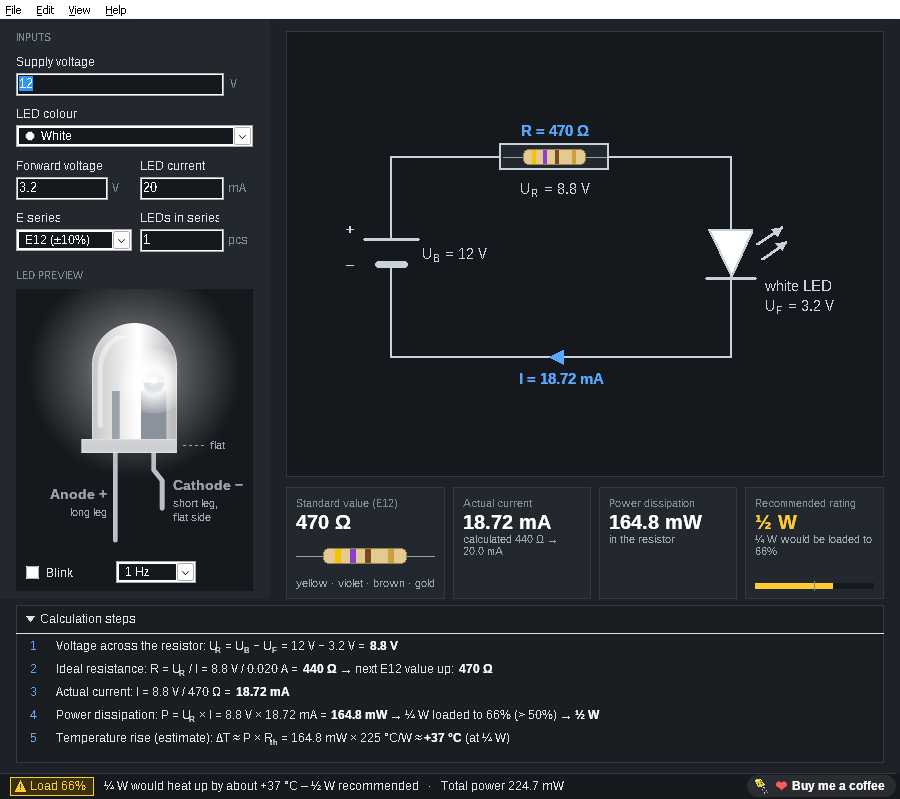
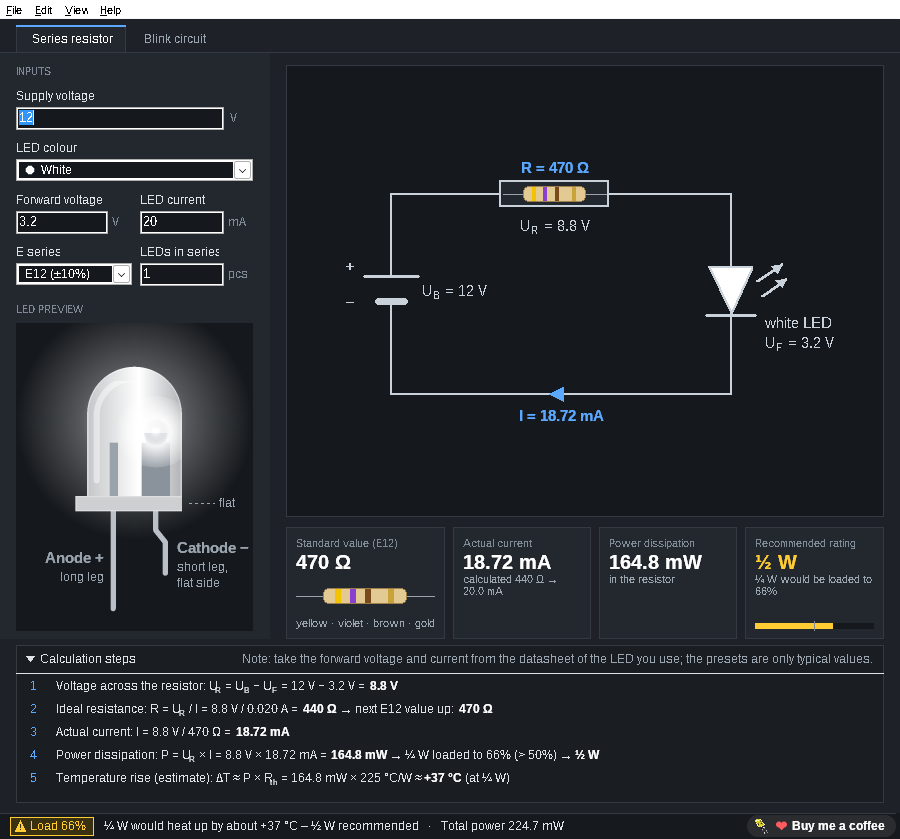
Projektseite: Version 2.3 mit Blinkschaltung (#12)
Download-Links v2.3, neuer Abschnitt Blinkschaltung mit Screenshot, neue Screenshots DE/EN, Beschreibung und JSON-LD ergänzt.

diff --git a/site/de/index.html b/site/de/index.html
@@ -4,8 +4,8 @@
 <meta charset="utf-8">
 <meta name="viewport" content="width=device-width, initial-scale=1">
 <title>LedPreResistor – kostenloser LED-Vorwiderstandsrechner für Windows und Linux</title>
-<meta name="description" content="Elospeed LedPreResistor berechnet den Vorwiderstand für eine oder mehrere LEDs: Normwert aus E12/E24/E96, Farbringe, tatsächlicher Strom, Leistung und passende Bauform, mit Rechenweg Schritt für Schritt. Kostenlos, Open Source, für Windows und Linux.">
-<meta name="keywords" content="LED Vorwiderstand berechnen, Vorwiderstand Rechner, LED Widerstand, E12, E24, E96, Farbcode Widerstand, Elektronik, Windows, Linux, kostenlos, Open Source">
+<meta name="description" content="Elospeed LedPreResistor berechnet den Vorwiderstand für eine oder mehrere LEDs: Normwert aus E12/E24/E96, Farbringe, tatsächlicher Strom, Leistung und passende Bauform, mit Rechenweg Schritt für Schritt, dazu ein Rechner für Blinkschaltungen mit NE555 und Multivibrator. Kostenlos, Open Source, für Windows und Linux.">
+<meta name="keywords" content="LED Vorwiderstand berechnen, Vorwiderstand Rechner, LED Widerstand, E12, E24, E96, Farbcode Widerstand, NE555 Blinker, astabiler Multivibrator, LED Blinkschaltung, Elektronik, Windows, Linux, kostenlos, Open Source">
 <meta name="author" content="Elospeed">
 <meta name="robots" content="index, follow">
 <link rel="canonical" href="https://elospeed.github.io/LedPreResistor/de/">
@@ -41,10 +41,10 @@
   "name": "Elospeed LedPreResistor",
   "operatingSystem": "Windows 10, Windows 11 (64-bit), Linux (x86_64)",
   "applicationCategory": "UtilitiesApplication",
-  "description": "Berechnet den Vorwiderstand für eine oder mehrere LEDs in Reihe: nächsthöherer Normwert aus E12, E24 oder E96, Farbringe, tatsächlicher Strom, Leistung und empfohlene Bauform, mit Rechenweg Schritt für Schritt.",
+  "description": "Berechnet den Vorwiderstand für eine oder mehrere LEDs in Reihe: nächsthöherer Normwert aus E12, E24 oder E96, Farbringe, tatsächlicher Strom, Leistung und empfohlene Bauform, mit Rechenweg Schritt für Schritt. Rechnet auch LED-Blinkschaltungen mit NE555 oder Multivibrator mit zwei Transistoren.",
   "url": "https://elospeed.github.io/LedPreResistor/de/",
   "downloadUrl": "https://github.com/Elospeed/LedPreResistor/releases/latest",
-  "softwareVersion": "2.2",
+  "softwareVersion": "2.3",
   "inLanguage": "de",
   "license": "https://opensource.org/licenses/MIT",
   "isAccessibleForFree": true,
@@ -61,6 +61,7 @@
     <a class="brand" href="./"><img src="../img/icon-192.png" alt="" width="30" height="30">Elospeed LedPreResistor</a>
     <nav>
       <a class="hide-m" href="#funktionen">Funktionen</a>
+      <a class="hide-m" href="#blinken">Blinken</a>
       <a class="hide-m" href="#so-gehts">So geht's</a>
       <a class="hide-m" href="#faq">Fragen</a>
       <a class="hide-m" href="https://github.com/Elospeed/LedPreResistor">GitHub</a>
@@ -78,8 +79,8 @@
     <h1>Der richtige Widerstand<br>für <span class="grad">jede LED</span></h1>
     <p class="lead">Speisespannung eingeben, LED-Farbe und Strom wählen. LedPreResistor sucht den nächsten Normwiderstand, zeigt seine Farbringe, den tatsächlichen Strom und die Leistung und sagt dir, welche Bauform du brauchst. Jeder Rechenschritt steht mit deinen eigenen Zahlen da. Ein kleines Programm für Windows und Linux, kostenlos und Open Source.</p>
     <div class="cta">
-      <a class="btn primary" href="https://github.com/Elospeed/LedPreResistor/releases/download/v2.2/LedPreResistor-2.2.zip">⬇ Download für Windows</a>
-      <a class="btn primary" href="https://github.com/Elospeed/LedPreResistor/releases/download/v2.2/LedPreResistor-2.2-linux-x86_64.tar.gz">⬇ Download für Linux</a>
+      <a class="btn primary" href="https://github.com/Elospeed/LedPreResistor/releases/download/v2.3/LedPreResistor-2.3.zip">⬇ Download für Windows</a>
+      <a class="btn primary" href="https://github.com/Elospeed/LedPreResistor/releases/download/v2.3/LedPreResistor-2.3-linux-x86_64.tar.gz">⬇ Download für Linux</a>
       <a class="btn" href="https://github.com/Elospeed/LedPreResistor">Quelltext auf GitHub</a>
     </div>
     <ul class="facts">
@@ -88,10 +89,11 @@
       <li>Eine EXE, keine Installation</li>
       <li>Läuft offline</li>
       <li>E12, E24 und E96</li>
+      <li>Blinkschaltungen: NE555 und Multivibrator</li>
     </ul>
     <figure class="shot hero-shot">
-      <div class="bar"><img src="../img/icon-32.png" alt=""><span>LedPreResistor · Elospeed 2.2</span><i class="min"></i><i class="max"></i><i class="cls"></i></div>
-      <img src="../img/ledpreresistor-main.png" width="900" height="799" alt="Hauptfenster von LedPreResistor: 12 V, weisse LED, 20 mA. Schaltplan mit 470-Ohm-Widerstand, Farbringe gelb violett braun gold, 18,72 mA, 164,8 mW, empfohlene Bauform ein halbes Watt, darunter der Rechenweg">
+      <div class="bar"><img src="../img/icon-32.png" alt=""><span>LedPreResistor · Elospeed 2.3</span><i class="min"></i><i class="max"></i><i class="cls"></i></div>
+      <img src="../img/ledpreresistor-main.png" width="900" height="839" alt="Hauptfenster von LedPreResistor: 12 V, weisse LED, 20 mA. Schaltplan mit 470-Ohm-Widerstand, Farbringe gelb violett braun gold, 18,72 mA, 164,8 mW, empfohlene Bauform ein halbes Watt, darunter der Rechenweg">
     </figure>
   </div>
 </section>
@@ -104,7 +106,7 @@
       <div class="card"><h3><span class="dot" style="background:var(--red)"></span>Normwert und Farbringe</h3><p>Immer der nächsthöhere Wert aus der Reihe E12, E24 oder E96, damit die LED nie mehr Strom bekommt als geplant. Der Widerstand wird mit seinen Farbringen gezeichnet: vier Ringe bei E12/E24, fünf bei E96.</p></div>
       <div class="card"><h3><span class="dot" style="background:var(--yellow)"></span>Leistung und Bauform</h3><p>Tatsächlicher Strom, Leistung im Widerstand und in den LEDs. LedPreResistor empfiehlt ⅛, ¼, ½ oder 1 W und warnt ab 50 % Auslastung, mit geschätzter Erwärmung des Widerstands.</p></div>
       <div class="card"><h3><span class="dot" style="background:var(--green)"></span>Rechenweg Schritt für Schritt</h3><p>Ein aufklappbarer Bereich zeigt die fünf Schritte mit deinen Werten: Spannung am Widerstand, idealer Wert, Normwert, tatsächlicher Strom, Leistung und Erwärmung. Zum Lernen und zum Nachprüfen.</p></div>
-      <div class="card"><h3><span class="dot" style="background:var(--blue)"></span>LED-Vorschau</h3><p>Eine realistische 5-mm-LED in der gewählten Farbe, Anode, Kathode und flache Seite beschriftet, damit sie richtig herum eingelötet wird. Blinkt auf Wunsch mit 0,5 bis 5 Hz.</p></div>
+      <div class="card"><h3><span class="dot" style="background:var(--blue)"></span>LED-Vorschau</h3><p>Eine realistische 5-mm-LED in der gewählten Farbe, Anode, Kathode und flache Seite beschriftet, damit sie richtig herum eingelötet wird. Im Reiter «Blinkschaltung» blinkt sie mit den berechneten Zeiten.</p></div>
       <div class="card"><h3><span class="dot" style="background:var(--white)"></span>Schaltplan mit allen Werten</h3><p>Spannungsquelle, Widerstand und LED in einem übersichtlichen Schaltplan, mit Spannung, Strom und Widerstand an jedem Bauteil. Auch mehrere LEDs in Reihe.</p></div>
       <div class="card"><h3><span class="dot" style="background:var(--accent)"></span>LED-Info eingebaut</h3><p>Mit F1 öffnet sich «Die Leuchtdiode»: wie eine LED funktioniert, Farben und Durchlassspannungen, Polarität, Vorwiderstand, Konstantstrom und Praxistipps. Im Browser, auch offline.</p></div>
     </div>
@@ -126,13 +128,34 @@
       </ul>
     </div>
     <figure class="shot">
-      <div class="bar"><img src="../img/icon-32.png" alt=""><span>LedPreResistor · Elospeed 2.2</span><i class="min"></i><i class="max"></i><i class="cls"></i></div>
-      <img src="../img/ledpreresistor-warning.png" width="900" height="799" alt="LedPreResistor mit 9 V, roter LED, 25 mA: 330 Ohm, 148,5 mW, ein Viertelwatt-Widerstand wäre zu 59 Prozent ausgelastet, die Statuszeile warnt gelb und empfiehlt ein halbes Watt" loading="lazy">
+      <div class="bar"><img src="../img/icon-32.png" alt=""><span>LedPreResistor · Elospeed 2.3</span><i class="min"></i><i class="max"></i><i class="cls"></i></div>
+      <img src="../img/ledpreresistor-warning.png" width="900" height="839" alt="LedPreResistor mit 9 V, roter LED, 25 mA: 330 Ohm, 148,5 mW, ein Viertelwatt-Widerstand wäre zu 59 Prozent ausgelastet, die Statuszeile warnt gelb und empfiehlt ein halbes Watt" loading="lazy">
     </figure>
   </div>
 </section>
 
-<section id="so-gehts" class="alt">
+<section id="blinken" class="alt">
+  <div class="wrap split rev">
+    <div>
+      <h2>Die LED blinken lassen</h2>
+      <p class="sub" style="margin-bottom:0">Neu in Version 2.3: Der Reiter «Blinkschaltung» rechnet die zwei klassischen Bastel-Blinker, mit Schaltplan, Rechenweg und Prüfungen.</p>
+      <ul class="ticks">
+        <li><strong>NE555 astabil:</strong> An- und Aus-Zeit, Frequenz und Tastgrad aus R1, R2 und C, wahlweise mit Diode über R2 für kurze Blitze</li>
+        <li><strong>Multivibrator mit zwei BC547:</strong> zwei LEDs blinken im Wechsel, standardmässig symmetrisch 1:1</li>
+        <li><strong>Auch umgekehrt:</strong> Frequenz (NE555) oder Leuchtdauer jeder LED (Multivibrator) eingeben, das Programm wählt Widerstände aus der E12-Reihe und zeigt die Zeiten, die damit wirklich herauskommen</li>
+        <li>Vorwiderstand der LEDs, Farbringe und Schaltplan mit allen Werten</li>
+        <li>Prüfungen für Spannungsbereich, Ausgangsstrom, Sättigung der Transistoren und Sperrspannung an der Basis</li>
+        <li>Die LED-Vorschau blinkt mit den berechneten Zeiten und zeigt die Frequenz in Hz</li>
+      </ul>
+    </div>
+    <figure class="shot">
+      <div class="bar"><img src="../img/icon-32.png" alt=""><span>LedPreResistor · Elospeed 2.3</span><i class="min"></i><i class="max"></i><i class="cls"></i></div>
+      <img src="../img/ledpreresistor-blink.png" width="900" height="839" alt="LedPreResistor Reiter Blinkschaltung: NE555 astabil mit R1 1 Kiloohm, R2 68 Kiloohm und 10 Mikrofarad an 12 V, 1,05 Hz, Tastgrad 50,4 Prozent, Vorwiderstand 390 Ohm für eine weisse LED, Schaltplan und Rechenweg" loading="lazy">
+    </figure>
+  </div>
+</section>
+
+<section id="so-gehts">
   <div class="wrap">
     <h2>So geht's</h2>
     <p class="sub">In drei Schritten vom Datenblatt zum richtigen Widerstand.</p>
@@ -153,8 +176,8 @@
   </div>
 </section>
 
-<section>
-  <div class="wrap split rev">
+<section class="alt">
+  <div class="wrap split">
     <div>
       <h2>Rechnen und dabei lernen</h2>
       <p class="sub" style="margin-bottom:0">Die eingebaute LED-Info ist eine kurze Anleitung für Bastler, für Version 2.0 neu geschrieben, mit Werten auf dem Stand von 2026.</p>
@@ -174,7 +197,7 @@
   </div>
 </section>
 
-<section id="faq" class="alt">
+<section id="faq">
   <div class="wrap">
     <h2>Fragen und Antworten</h2>
     <details>
@@ -203,7 +226,7 @@
     </details>
     <details>
       <summary>Gibt es eine Linux-Version?</summary>
-      <p>Ja, seit Version 2.2: eine eigene Linux-Version (x86_64, GTK2), ohne Wine. <code>LedPreResistor-2.2-linux-x86_64.tar.gz</code> entpacken und <code>./LedPreResistor</code> starten. <code>./install.sh</code> nimmt das Programm ohne root ins Startmenü auf. Es braucht GTK2, das auf den meisten Systemen schon da ist (sonst <code>sudo apt install libgtk2.0-0</code>, <code>sudo dnf install gtk2</code> oder <code>sudo pacman -S gtk2</code>). Die Einstellungen liegen in <code>~/.config/LedPreResistor/</code>.</p>
+      <p>Ja, seit Version 2.2: eine eigene Linux-Version (x86_64, GTK2), ohne Wine. <code>LedPreResistor-2.3-linux-x86_64.tar.gz</code> entpacken und <code>./LedPreResistor</code> starten. <code>./install.sh</code> nimmt das Programm ohne root ins Startmenü auf. Es braucht GTK2, das auf den meisten Systemen schon da ist (sonst <code>sudo apt install libgtk2.0-0</code>, <code>sudo dnf install gtk2</code> oder <code>sudo pacman -S gtk2</code>). Die Einstellungen liegen in <code>~/.config/LedPreResistor/</code>.</p>
     </details>
     <details>
       <summary>Woher kommt LedPreResistor?</summary>
@@ -216,13 +239,13 @@
   </div>
 </section>
 
-<section>
+<section class="alt">
   <div class="wrap" style="text-align:center">
     <h2>Bereit für das nächste LED-Projekt?</h2>
     <p class="sub" style="margin:0 auto 26px">Für Windows oder Linux herunterladen, entpacken und losrechnen.</p>
     <div class="cta">
-      <a class="btn primary" href="https://github.com/Elospeed/LedPreResistor/releases/download/v2.2/LedPreResistor-2.2.zip">⬇ Windows (ZIP)</a>
-      <a class="btn primary" href="https://github.com/Elospeed/LedPreResistor/releases/download/v2.2/LedPreResistor-2.2-linux-x86_64.tar.gz">⬇ Linux (tar.gz)</a>
+      <a class="btn primary" href="https://github.com/Elospeed/LedPreResistor/releases/download/v2.3/LedPreResistor-2.3.zip">⬇ Windows (ZIP)</a>
+      <a class="btn primary" href="https://github.com/Elospeed/LedPreResistor/releases/download/v2.3/LedPreResistor-2.3-linux-x86_64.tar.gz">⬇ Linux (tar.gz)</a>
       <a class="btn" href="https://github.com/Elospeed/LedPreResistor/blob/main/LIESMICH.md">Anleitung lesen</a>
     </div>
     <p class="support">LedPreResistor ist ein Ein-Personen-Hobbyprojekt und bleibt kostenlos. Wenn es dir hilft, kannst du mir auf <a href="https://ko-fi.com/elospeed">Ko-fi einen Kaffee spendieren</a> ☕ oder einfach <a href="https://github.com/Elospeed/LedPreResistor">auf GitHub einen Stern geben</a>. Beides ganz freiwillig.</p>

diff --git a/site/index.html b/site/index.html
@@ -4,8 +4,8 @@
 <meta charset="utf-8">
 <meta name="viewport" content="width=device-width, initial-scale=1">
 <title>LedPreResistor – free LED series resistor calculator for Windows and Linux</title>
-<meta name="description" content="Elospeed LedPreResistor calculates the series resistor for one or more LEDs: E12/E24/E96 standard value, colour bands, real current, power and the right resistor size, with a step-by-step explanation. Free, open source, for Windows and Linux.">
-<meta name="keywords" content="LED resistor calculator, series resistor, LED current limiting resistor, E12, E24, E96, resistor colour code, electronics, Windows, Linux, free, open source">
+<meta name="description" content="Elospeed LedPreResistor calculates the series resistor for one or more LEDs: E12/E24/E96 standard value, colour bands, real current, power and the right resistor size, with a step-by-step explanation, plus a blink circuit calculator for the NE555 and the two-transistor multivibrator. Free, open source, for Windows and Linux.">
+<meta name="keywords" content="LED resistor calculator, series resistor, LED current limiting resistor, E12, E24, E96, resistor colour code, NE555 blinker, astable multivibrator, LED flasher, electronics, Windows, Linux, free, open source">
 <meta name="author" content="Elospeed">
 <meta name="robots" content="index, follow">
 <link rel="canonical" href="https://elospeed.github.io/LedPreResistor/">
@@ -41,10 +41,10 @@
   "name": "Elospeed LedPreResistor",
   "operatingSystem": "Windows 10, Windows 11 (64-bit), Linux (x86_64)",
   "applicationCategory": "UtilitiesApplication",
-  "description": "Calculates the series resistor for one or more LEDs in series: next standard value from E12, E24 or E96, colour bands, real current, power and recommended resistor size, with a step-by-step explanation.",
+  "description": "Calculates the series resistor for one or more LEDs in series: next standard value from E12, E24 or E96, colour bands, real current, power and recommended resistor size, with a step-by-step explanation. Also calculates LED blink circuits with the NE555 or a two-transistor multivibrator.",
   "url": "https://elospeed.github.io/LedPreResistor/",
   "downloadUrl": "https://github.com/Elospeed/LedPreResistor/releases/latest",
-  "softwareVersion": "2.2",
+  "softwareVersion": "2.3",
   "license": "https://opensource.org/licenses/MIT",
   "isAccessibleForFree": true,
   "offers": { "@type": "Offer", "price": "0", "priceCurrency": "USD" },
@@ -60,6 +60,7 @@
     <a class="brand" href="./"><img src="img/icon-192.png" alt="" width="30" height="30">Elospeed LedPreResistor</a>
     <nav>
       <a class="hide-m" href="#features">Features</a>
+      <a class="hide-m" href="#blink">Blink circuits</a>
       <a class="hide-m" href="#how">How it works</a>
       <a class="hide-m" href="#faq">FAQ</a>
       <a class="hide-m" href="https://github.com/Elospeed/LedPreResistor">GitHub</a>
@@ -77,8 +78,8 @@
     <h1>The right resistor<br>for <span class="grad">every LED</span></h1>
     <p class="lead">Enter the supply voltage, pick the LED colour and the current. LedPreResistor finds the next standard resistor, shows its colour bands, the real current and the power, and tells you which resistor size to use. Every step of the calculation is shown with your own numbers. One small program for Windows and Linux, free and open source.</p>
     <div class="cta">
-      <a class="btn primary" href="https://github.com/Elospeed/LedPreResistor/releases/download/v2.2/LedPreResistor-2.2.zip">⬇ Download for Windows</a>
-      <a class="btn primary" href="https://github.com/Elospeed/LedPreResistor/releases/download/v2.2/LedPreResistor-2.2-linux-x86_64.tar.gz">⬇ Download for Linux</a>
+      <a class="btn primary" href="https://github.com/Elospeed/LedPreResistor/releases/download/v2.3/LedPreResistor-2.3.zip">⬇ Download for Windows</a>
+      <a class="btn primary" href="https://github.com/Elospeed/LedPreResistor/releases/download/v2.3/LedPreResistor-2.3-linux-x86_64.tar.gz">⬇ Download for Linux</a>
       <a class="btn" href="https://github.com/Elospeed/LedPreResistor">View source on GitHub</a>
     </div>
     <ul class="facts">
@@ -87,10 +88,11 @@
       <li>One EXE, no installation</li>
       <li>Works offline</li>
       <li>E12, E24 and E96</li>
+      <li>Blink circuits: NE555 and multivibrator</li>
     </ul>
     <figure class="shot hero-shot">
-      <div class="bar"><img src="img/icon-32.png" alt=""><span>LedPreResistor · Elospeed 2.2</span><i class="min"></i><i class="max"></i><i class="cls"></i></div>
-      <img src="img/ledpreresistor-main-en.png" width="900" height="799" alt="LedPreResistor main window: 12 V supply, white LED, 20 mA. Schematic with 470 ohm resistor, colour bands yellow violet brown gold, 18.72 mA, 164.8 mW, recommended size half a watt, and the calculation step by step">
+      <div class="bar"><img src="img/icon-32.png" alt=""><span>LedPreResistor · Elospeed 2.3</span><i class="min"></i><i class="max"></i><i class="cls"></i></div>
+      <img src="img/ledpreresistor-main-en.png" width="900" height="839" alt="LedPreResistor main window: 12 V supply, white LED, 20 mA. Schematic with 470 ohm resistor, colour bands yellow violet brown gold, 18.72 mA, 164.8 mW, recommended size half a watt, and the calculation step by step">
     </figure>
     <figcaption>English and German interface: it follows your Windows language, and View → Language switches at any time.</figcaption>
   </div>
@@ -104,7 +106,7 @@
       <div class="card"><h3><span class="dot" style="background:var(--red)"></span>Standard value and colour bands</h3><p>Always the next higher value from the E12, E24 or E96 series, so the LED never gets more current than planned. The resistor is drawn with its colour bands: four bands for E12/E24, five for E96.</p></div>
       <div class="card"><h3><span class="dot" style="background:var(--yellow)"></span>Power and the right size</h3><p>Real current, power in the resistor and in the LEDs. LedPreResistor recommends ⅛, ¼, ½ or 1 W and warns from 50 % load, with an estimated temperature rise of the resistor.</p></div>
       <div class="card"><h3><span class="dot" style="background:var(--green)"></span>The calculation, step by step</h3><p>A fold-out panel walks through the five steps with your values: voltage across the resistor, ideal value, standard value, real current, power and warming. Ideal for learning and for checking.</p></div>
-      <div class="card"><h3><span class="dot" style="background:var(--blue)"></span>LED preview</h3><p>A realistic 5 mm LED in the selected colour, with anode, cathode and the flat side labelled, so you solder it the right way round. It can blink at 0.5 to 5 Hz.</p></div>
+      <div class="card"><h3><span class="dot" style="background:var(--blue)"></span>LED preview</h3><p>A realistic 5 mm LED in the selected colour, with anode, cathode and the flat side labelled, so you solder it the right way round. In the blink circuit tab it blinks with the calculated times.</p></div>
       <div class="card"><h3><span class="dot" style="background:var(--white)"></span>Schematic with all values</h3><p>Supply, resistor and LED in a clear circuit diagram, with voltage, current and resistance at every part. Several LEDs in series are supported.</p></div>
       <div class="card"><h3><span class="dot" style="background:var(--accent)"></span>LED info built in</h3><p>Press F1 for “The LED”: how an LED works, colours and forward voltages, polarity, series resistor, constant current and practical tips. Opens in your browser, also offline.</p></div>
     </div>
@@ -126,13 +128,34 @@
       </ul>
     </div>
     <figure class="shot">
-      <div class="bar"><img src="img/icon-32.png" alt=""><span>LedPreResistor · Elospeed 2.2</span><i class="min"></i><i class="max"></i><i class="cls"></i></div>
-      <img src="img/ledpreresistor-warning-en.png" width="900" height="799" alt="LedPreResistor with 9 V, red LED, 25 mA: 330 ohm, 148.5 mW, a quarter watt resistor would be 59 percent loaded, the status bar shows a yellow warning and recommends half a watt" loading="lazy">
+      <div class="bar"><img src="img/icon-32.png" alt=""><span>LedPreResistor · Elospeed 2.3</span><i class="min"></i><i class="max"></i><i class="cls"></i></div>
+      <img src="img/ledpreresistor-warning-en.png" width="900" height="839" alt="LedPreResistor with 9 V, red LED, 25 mA: 330 ohm, 148.5 mW, a quarter watt resistor would be 59 percent loaded, the status bar shows a yellow warning and recommends half a watt" loading="lazy">
     </figure>
   </div>
 </section>
 
-<section id="how" class="alt">
+<section id="blink" class="alt">
+  <div class="wrap split rev">
+    <div>
+      <h2>Make your LED blink</h2>
+      <p class="sub" style="margin-bottom:0">New in version 2.3: the “Blink circuit” tab calculates the two classic hobby blinkers, with schematic, calculation steps and checks.</p>
+      <ul class="ticks">
+        <li><strong>NE555 astable:</strong> on and off time, frequency and duty cycle from R1, R2 and C, optionally with a diode across R2 for short flashes</li>
+        <li><strong>Multivibrator with two BC547:</strong> two LEDs blinking alternately, symmetric 1:1 by default</li>
+        <li><strong>The other way round:</strong> enter the frequency (NE555) or how long each LED stays on (multivibrator), and get resistors from the E12 series with the times they really give</li>
+        <li>Series resistor for the LEDs, colour bands and a schematic with every value</li>
+        <li>Checks for supply range, output current, transistor saturation and base reverse voltage</li>
+        <li>The LED preview blinks with the calculated times and shows the frequency in Hz</li>
+      </ul>
+    </div>
+    <figure class="shot">
+      <div class="bar"><img src="img/icon-32.png" alt=""><span>LedPreResistor · Elospeed 2.3</span><i class="min"></i><i class="max"></i><i class="cls"></i></div>
+      <img src="img/ledpreresistor-blink-en.png" width="900" height="839" alt="LedPreResistor blink circuit tab: NE555 astable with R1 1 kilohm, R2 68 kilohm and 10 microfarad at 12 V, 1.05 Hz, 50.4 percent duty cycle, series resistor 390 ohm for a white LED, schematic and calculation steps" loading="lazy">
+    </figure>
+  </div>
+</section>
+
+<section id="how">
   <div class="wrap">
     <h2>How it works</h2>
     <p class="sub">Three steps from the datasheet to the right resistor.</p>
@@ -153,8 +176,8 @@
   </div>
 </section>
 
-<section>
-  <div class="wrap split rev">
+<section class="alt">
+  <div class="wrap split">
     <div>
       <h2>Learn while you calculate</h2>
       <p class="sub" style="margin-bottom:0">The built-in LED info is a short guide for hobbyists, rewritten for version 2.0 with values as of 2026, in English and German.</p>
@@ -174,7 +197,7 @@
   </div>
 </section>
 
-<section id="faq" class="alt">
+<section id="faq">
   <div class="wrap">
     <h2>Questions and answers</h2>
     <details>
@@ -203,7 +226,7 @@
     </details>
     <details>
       <summary>Is there a Linux version?</summary>
-      <p>Yes, since version 2.2: a native Linux build (x86_64, GTK2), no Wine needed. Unpack <code>LedPreResistor-2.2-linux-x86_64.tar.gz</code> and run <code>./LedPreResistor</code>. <code>./install.sh</code> adds it to your application menu without root. It needs GTK2, which most desktops already have (otherwise <code>sudo apt install libgtk2.0-0</code>, <code>sudo dnf install gtk2</code> or <code>sudo pacman -S gtk2</code>). Settings are stored in <code>~/.config/LedPreResistor/</code>.</p>
+      <p>Yes, since version 2.2: a native Linux build (x86_64, GTK2), no Wine needed. Unpack <code>LedPreResistor-2.3-linux-x86_64.tar.gz</code> and run <code>./LedPreResistor</code>. <code>./install.sh</code> adds it to your application menu without root. It needs GTK2, which most desktops already have (otherwise <code>sudo apt install libgtk2.0-0</code>, <code>sudo dnf install gtk2</code> or <code>sudo pacman -S gtk2</code>). Settings are stored in <code>~/.config/LedPreResistor/</code>.</p>
     </details>
     <details>
       <summary>Where does LedPreResistor come from?</summary>
@@ -216,13 +239,13 @@
   </div>
 </section>
 
-<section>
+<section class="alt">
   <div class="wrap" style="text-align:center">
     <h2>Ready for your next LED project?</h2>
     <p class="sub" style="margin:0 auto 26px">Download it for Windows or Linux, unpack it and start calculating.</p>
     <div class="cta">
-      <a class="btn primary" href="https://github.com/Elospeed/LedPreResistor/releases/download/v2.2/LedPreResistor-2.2.zip">⬇ Windows (ZIP)</a>
-      <a class="btn primary" href="https://github.com/Elospeed/LedPreResistor/releases/download/v2.2/LedPreResistor-2.2-linux-x86_64.tar.gz">⬇ Linux (tar.gz)</a>
+      <a class="btn primary" href="https://github.com/Elospeed/LedPreResistor/releases/download/v2.3/LedPreResistor-2.3.zip">⬇ Windows (ZIP)</a>
+      <a class="btn primary" href="https://github.com/Elospeed/LedPreResistor/releases/download/v2.3/LedPreResistor-2.3-linux-x86_64.tar.gz">⬇ Linux (tar.gz)</a>
       <a class="btn" href="https://github.com/Elospeed/LedPreResistor#readme">Read the guide</a>
     </div>
     <p class="support">LedPreResistor is a one-person hobby project and free for good. If it helps you, you can <a href="https://ko-fi.com/elospeed">buy me a coffee on Ko-fi</a> ☕ or simply <a href="https://github.com/Elospeed/LedPreResistor">give it a star on GitHub</a>. Both are entirely optional.</p>
